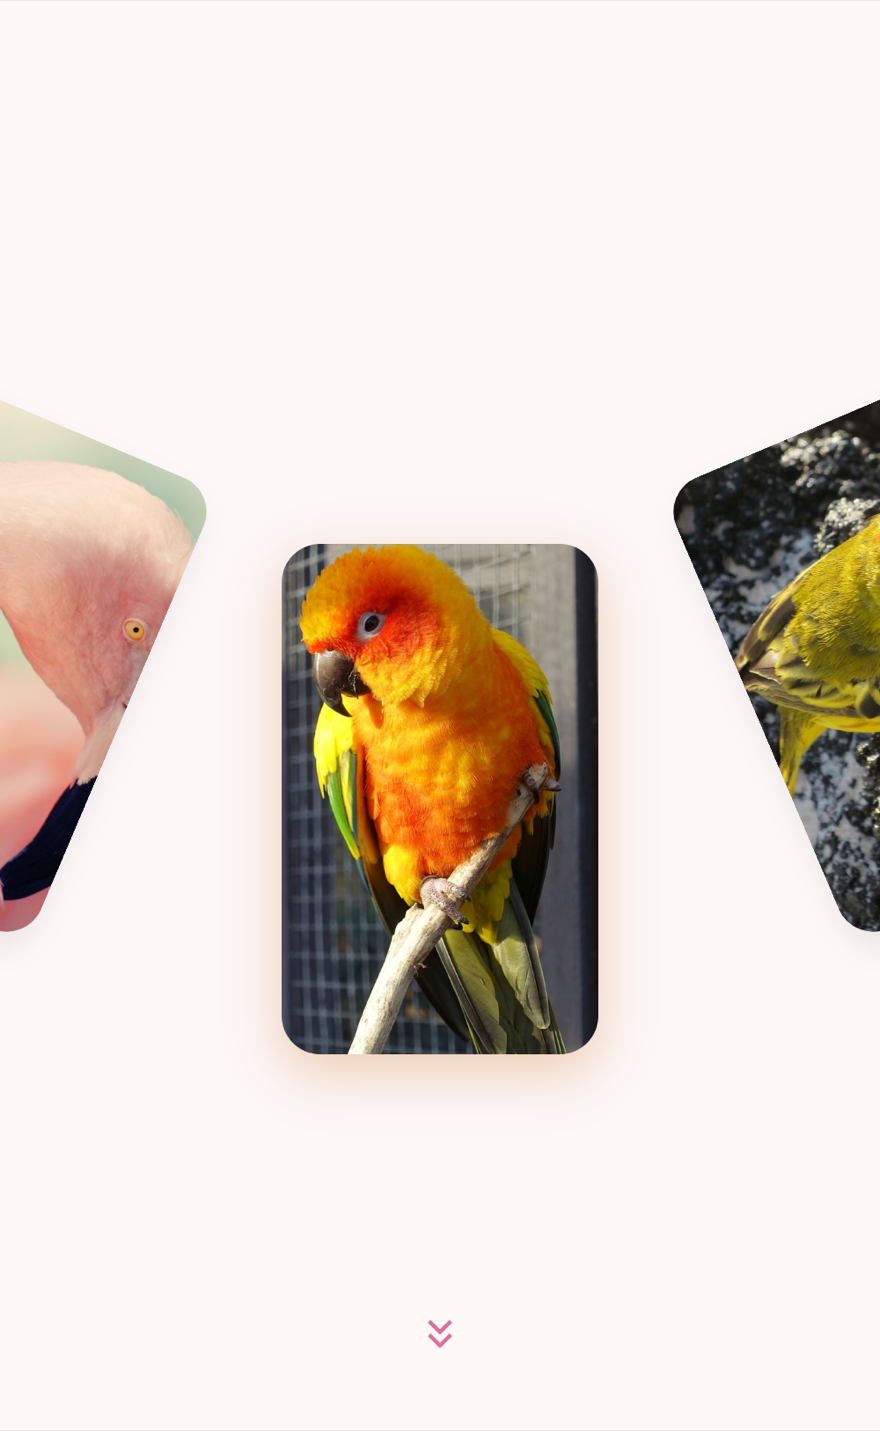
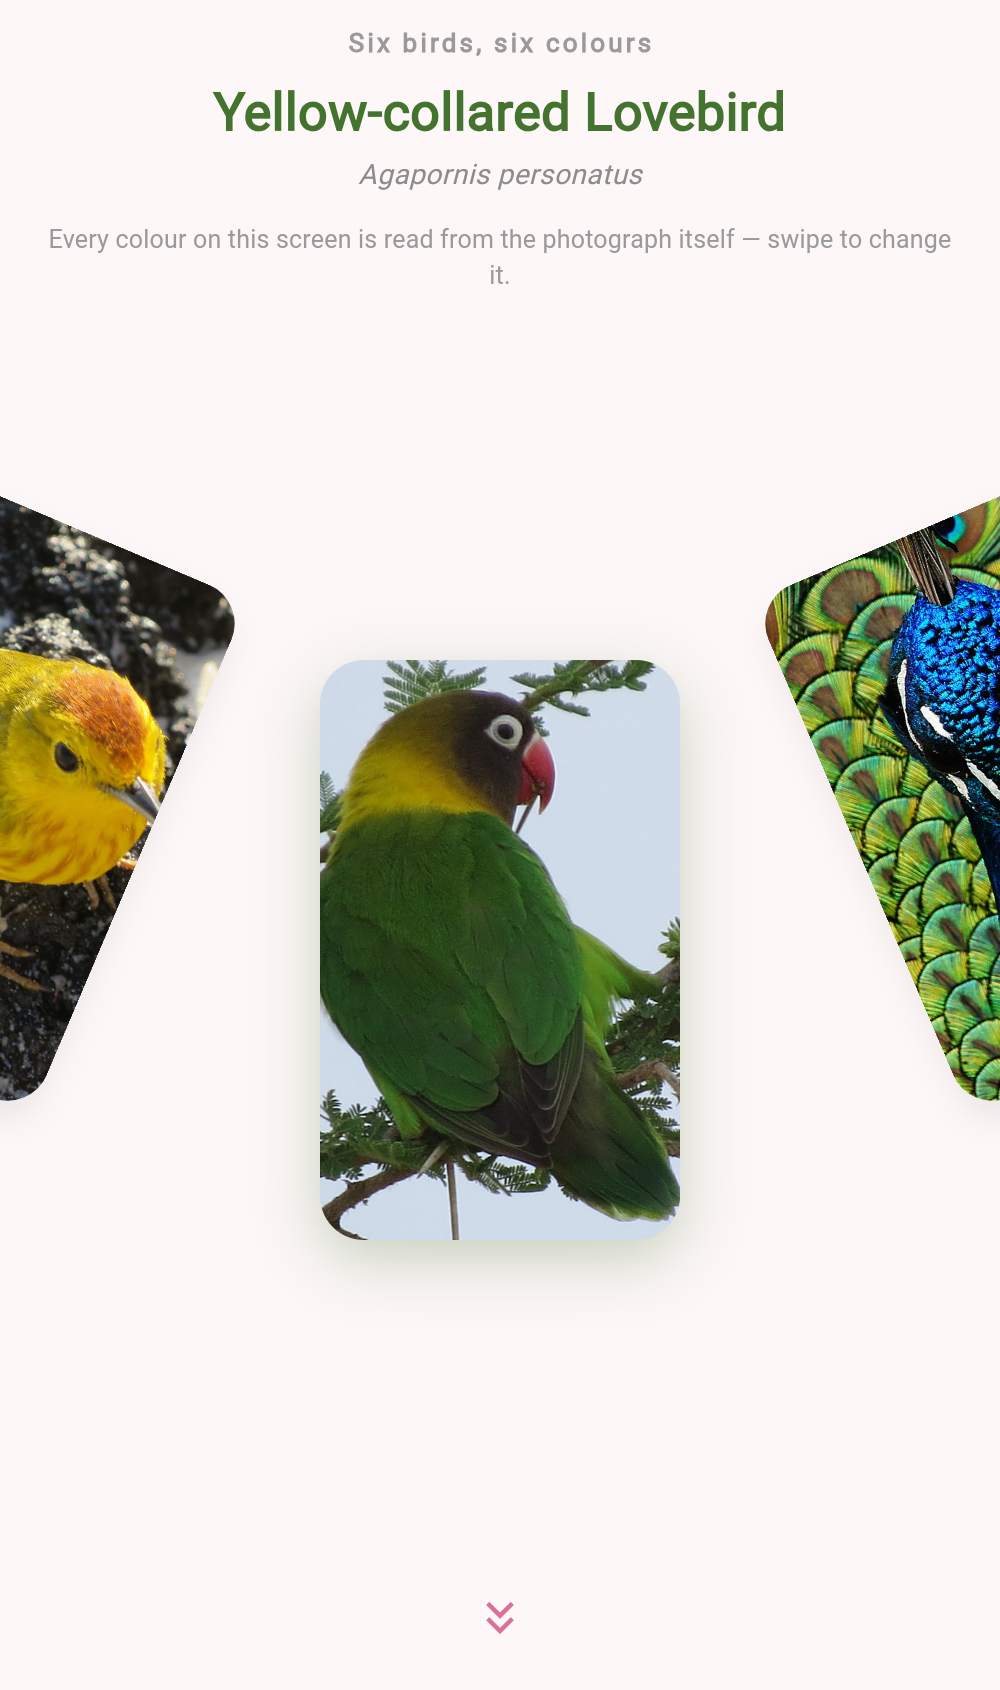
Release 0.3.1

diff --git a/example/lib/main.dart b/example/lib/main.dart
@@ -143,9 +143,9 @@ class _HomePageState extends State<HomePage> {
   /// accent is used, so the first frame never waits on image work.
   final Map<String, Color> _accents = <String, Color>{};
 
-  /// Flip to `true` to bring back pull-down-to-claim along with the
-  /// offer copy hidden in [_DemoHeader] and [_DragHint].
-  static const bool _dragToClaimEnabled = false;
+  /// Flip to `true` to bring the offer experience back: the cashback
+  /// header and the drag hint become visible again and the pull claims.
+  static const bool _offersEnabled = false;
 
   /// Which bird starts in the center. Passed to the carousel and used for
   /// the header's first frame, so the two cannot disagree.
@@ -190,16 +190,26 @@ class _HomePageState extends State<HomePage> {
     return MobiusCarousel(
       items: _items,
       initialIndex: _initialIndex,
-      header: _dragToClaimEnabled
-          ? const _DemoHeader()
-          : _BirdHeader(bird: _centered, color: _accents[_centered.asset]),
-      // The pull-down affordance would be pointing at nothing with
-      // claiming switched off.
-      footer: _dragToClaimEnabled ? const _DragHint() : null,
+      header: Column(
+        mainAxisSize: MainAxisSize.min,
+        children: [
+          // Built and kept alive — its countdown keeps ticking — but not
+          // painted and not taking up space while offers are off.
+          const Visibility(
+            visible: _offersEnabled,
+            maintainState: true,
+            maintainAnimation: true,
+            child: _DemoHeader(),
+          ),
+          _BirdHeader(bird: _centered, color: _accents[_centered.asset]),
+        ],
+      ),
+      footer: const _DragHint(),
       rippleStyle: MobiusRippleStyle.semiCircle,
       // The bird gallery browses sideways only; pulling a card down to
       // claim is switched off.
-      dragToClaimEnabled: _dragToClaimEnabled,
+      // The pull and its ripple stay; only the claim is held back.
+      claimEnabled: _offersEnabled,
       onCenterChanged: (index, _) => setState(() => _centered = _birds[index]),
       cardBuilder: (context, item, isFocused) =>
           _BirdCard(item: item, isFocused: isFocused),
@@ -557,12 +567,17 @@ class _DragHint extends StatelessWidget {
           color: const Color(0xFFC2185B).withValues(alpha: 0.6),
         ),
         const SizedBox(height: 6),
-        const Text(
-          'Drag down to Claim the Offer',
-          style: TextStyle(
-            color: Color(0xFF6B6B6B),
-            fontSize: 13,
-            fontWeight: FontWeight.w500,
+        const Visibility(
+          visible: _HomePageState._offersEnabled,
+          maintainState: true,
+          maintainAnimation: true,
+          child: Text(
+            'Drag down to Claim the Offer',
+            style: TextStyle(
+              color: Color(0xFF6B6B6B),
+              fontSize: 13,
+              fontWeight: FontWeight.w500,
+            ),
           ),
         ),
       ],

diff --git a/lib/src/mobius_carousel.dart b/lib/src/mobius_carousel.dart
@@ -91,6 +91,18 @@ class MobiusCarousel extends StatefulWidget {
   /// off while a claim is being processed.
   final bool dragToClaimEnabled;
 
+  /// Whether crossing [claimThreshold] actually claims the offer.
+  ///
+  /// With `false` the pull still behaves normally — the card follows the
+  /// finger, the ripple draws and the card springs back — but nothing is
+  /// claimed: no confetti, no dialog, and [onOfferClaimed] never fires.
+  /// Use it to keep the gesture as a piece of showmanship, or to hold
+  /// claiming back until something else is ready.
+  ///
+  /// [dragToClaimEnabled] is the blunter switch: it stops the gesture
+  /// being recognised at all.
+  final bool claimEnabled;
+
   /// Whether to play the built-in confetti burst on claim.
   final bool showConfetti;
 
@@ -150,6 +162,7 @@ class MobiusCarousel extends StatefulWidget {
     this.onOfferClaimed,
     this.claimThreshold = 120,
     this.dragToClaimEnabled = true,
+    this.claimEnabled = true,
     this.showConfetti = true,
     this.showClaimedDialog = true,
     this.onClaimConfirmed,
@@ -325,6 +338,7 @@ class _MobiusCarouselState extends State<MobiusCarousel>
     }
 
     if (!_claimedThisDrag &&
+        widget.claimEnabled &&
         widget.items.isNotEmpty &&
         _verticalDrag.value >= widget.claimThreshold) {
       _claimedThisDrag = true;

diff --git a/test/mobius_carousel_test.dart b/test/mobius_carousel_test.dart
@@ -110,4 +110,41 @@ void main() {
 
     expect(claimed, 1);
   });
+
+  testWidgets('claimEnabled: false drags and ripples but never claims',
+      (tester) async {
+    var claimed = 0;
+
+    await tester.pumpWidget(
+      MaterialApp(
+        home: MobiusCarousel(
+          items: const [
+            MobiusItem(provider: 'A', billAmount: '1'),
+            MobiusItem(provider: 'B', billAmount: '2'),
+          ],
+          claimEnabled: false,
+          showConfetti: false,
+          showClaimedDialog: false,
+          autoPlayInterval: null,
+          onOfferClaimed: (_) => claimed++,
+        ),
+      ),
+    );
+
+    // Hold the card down past the threshold: the gesture is still live, so
+    // the carousel moves the card — but nothing may be claimed.
+    final gesture = await tester
+        .startGesture(tester.getCenter(find.byType(MobiusCarousel)));
+    for (var i = 0; i < 20; i++) {
+      await gesture.moveBy(const Offset(0, 30));
+      await tester.pump(const Duration(milliseconds: 16));
+    }
+    expect(claimed, 0, reason: 'claim must not fire mid-drag');
+
+    await gesture.up();
+    await tester.pumpAndSettle();
+
+    expect(claimed, 0);
+    expect(find.text('Offer Claimed!'), findsNothing);
+  });
 }

diff --git a/README.md b/README.md
@@ -4,9 +4,9 @@ A custom infinite carousel slider for Flutter with tilted neighbor cards, rubber
 
 Built from scratch — **zero third-party dependencies**, no state-management library required.
 
-![Swiping the carousel through tilted neighbour cards, then pulling the centre card down to claim an offer](doc/demo.gif)
+![Swiping between bird photographs: the header name and the pull-down ripple both take the colour of the centred photo](doc/demo.gif)
 
-*The app in `example/`: swipe through the infinite-wrap carousel with its tilted neighbours, then pull the centre card down past the threshold for the ripple, confetti burst and claim dialog.*
+*The app in `example/`: six bird photographs on the cards. Each one's accent colour is read from the photograph at runtime, so swiping between the macaw, the peafowl and the lovebird recolours the header name — and the semi-circle ripple that blooms when the centre card is pulled down.*
 
 ## Features
 
@@ -90,6 +90,7 @@ Every visual is configurable. Defaults reproduce the look in the demo.
 | `autoPlayInterval` | `Duration(seconds: 4)` | Time between auto-advances. Pass `null` to disable. |
 | `claimThreshold` | `120` | Pull distance in pixels required to claim the offer. |
 | `dragToClaimEnabled` | `true` | Set `false` to switch off pull-down-to-claim entirely: no card follow, no ripple, no claim. Horizontal swiping, taps and auto-play keep working. |
+| `claimEnabled` | `true` | Set `false` to keep the pull and the ripple but never claim: no confetti, no dialog, `onOfferClaimed` never fires. |
 | `showConfetti` | `true` | Whether to play the built-in confetti burst on claim. |
 | `showClaimedDialog` | `true` | Whether to show the built-in "Offer Claimed!" dialog on claim. |
 | `rippleStyle` | `MobiusRippleStyle.wavy` | `wavy`, `circular`, `semiCircle`, or `none`. |

diff --git a/CHANGELOG.md b/CHANGELOG.md
@@ -1,3 +1,14 @@
+## 0.3.1
+
+* `claimEnabled` (default `true`) — set it to `false` to keep the pull-down
+  gesture and its ripple while never claiming: no confetti, no dialog, and
+  `onOfferClaimed` never fires.
+* Example: reads as a bird gallery. The header names the centred bird in the
+  colour taken from its own photograph, and the offer copy is kept in the
+  tree behind `Visibility`.
+* Re-recorded `doc/demo.gif` against the bird example, and excluded the
+  repository's still screenshots from the published archive (9 MB to 3 MB).
+
 ## 0.3.0
 
 * `dragToClaimEnabled` (default `true`) — set it to `false` to switch off
